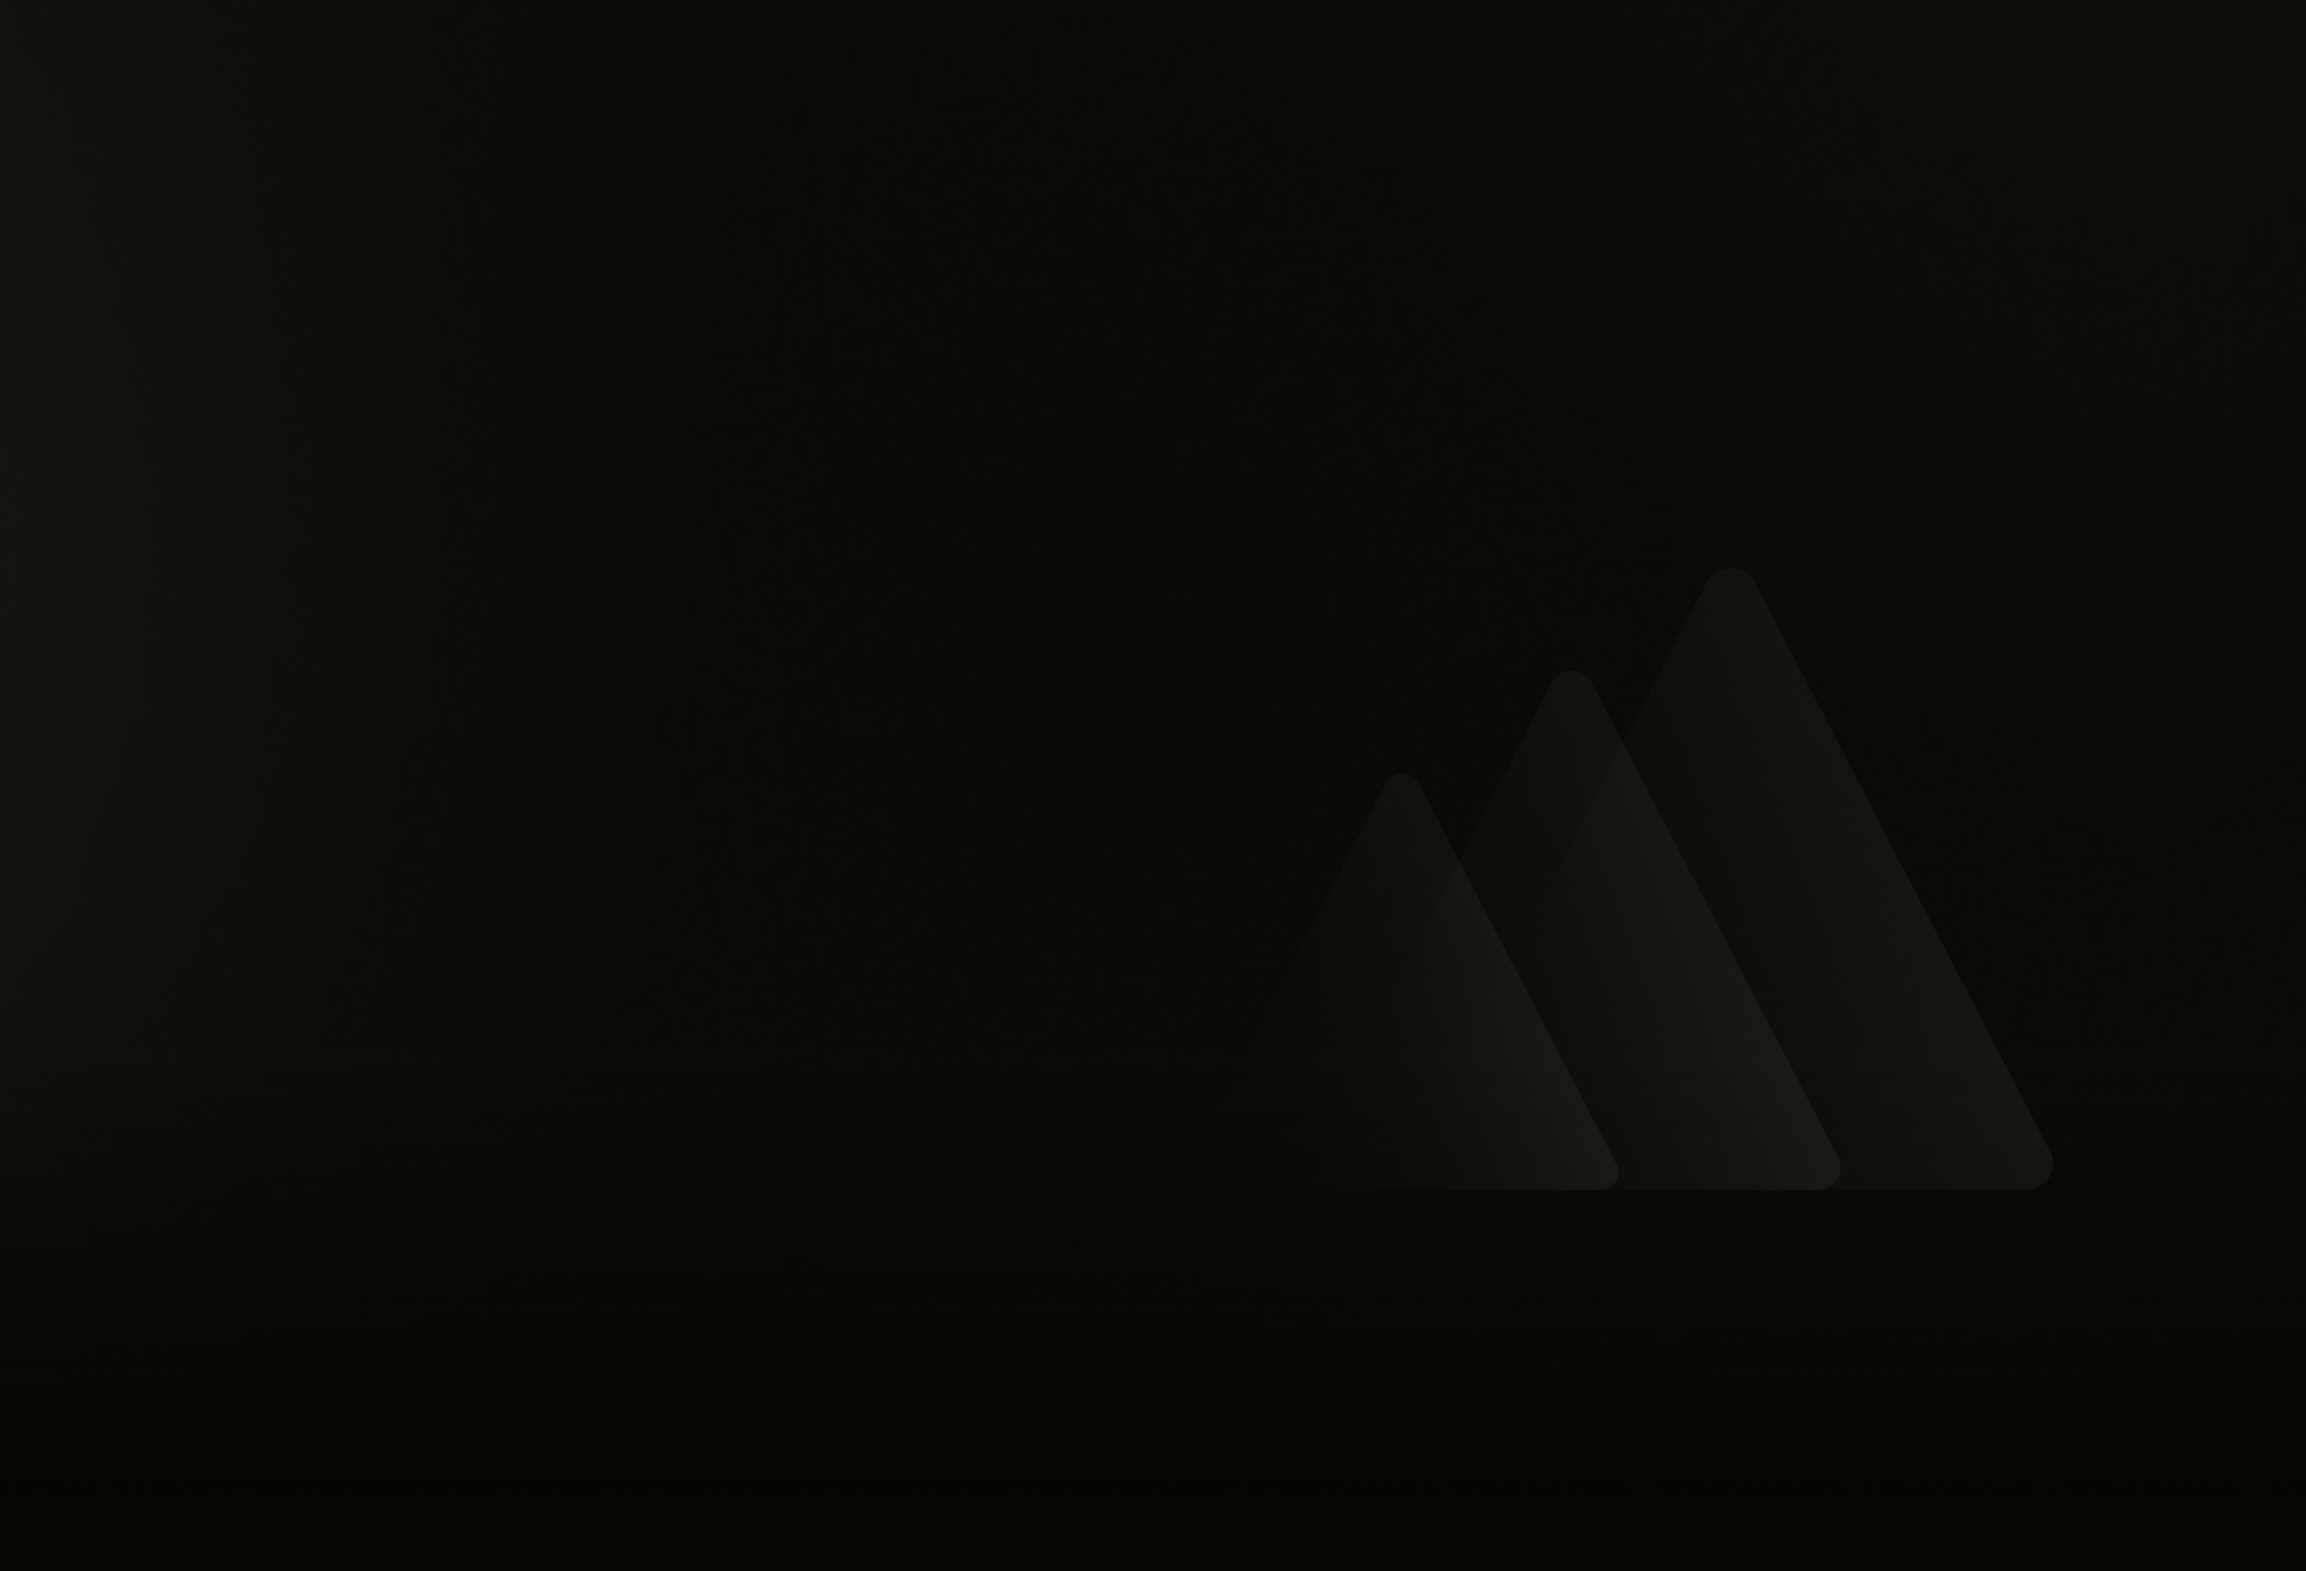
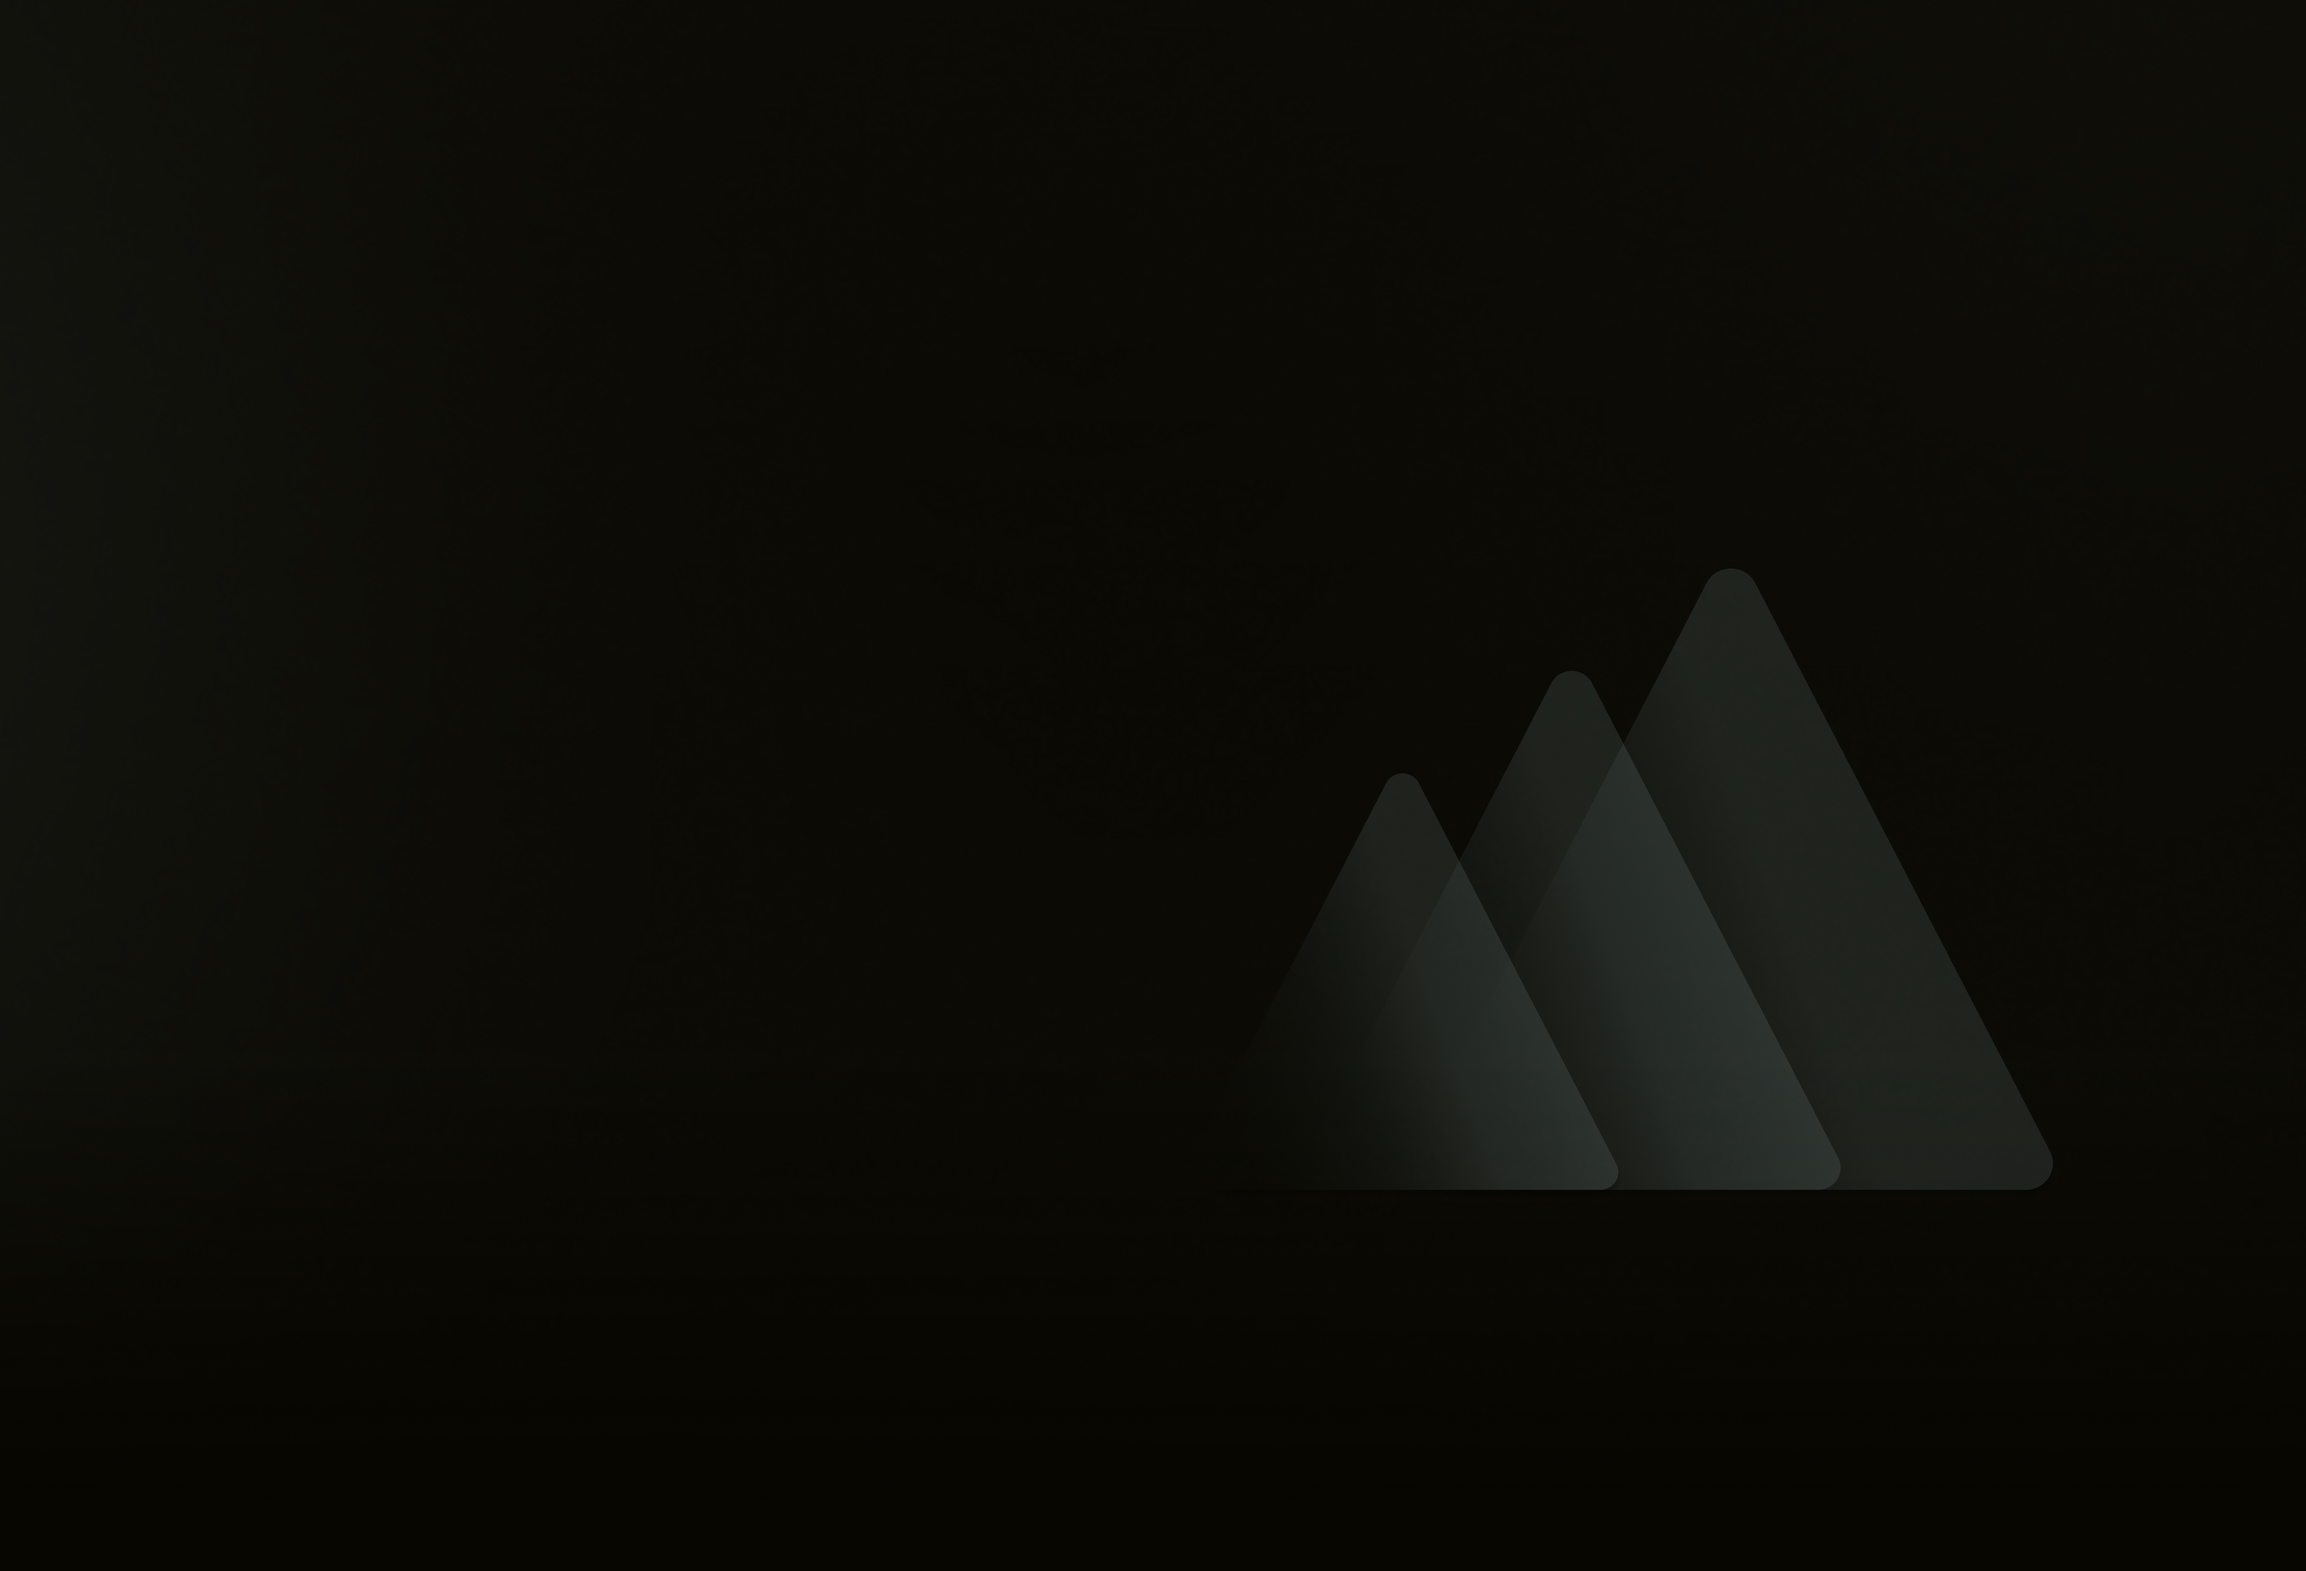
v3.1

Changed region(s): [[0.6562, 0.4664, 0.8125, 0.7773]]

diff --git a/style.css b/style.css
@@ -9,7 +9,7 @@
 
 body::before {
     content: '';
-    position: fixed;
+    position: absolute;
     top: 0;
     left: 0;
     width: 100%;
@@ -89,14 +89,71 @@ ul {
     color: aliceblue;
 }
 
-.principalseta {
-    margin-top: 12vh;
-    text-align: center;
+.solucoes {
+    height: 100vh;
+    background-color: rgb(0, 0, 0);
+    padding: 15vh 25vw;
 }
 
-.seta {
-    width: 4.5rem;
+.caixatextosolucoes {
+    display: flex;
+    gap: 50px;
+    align-items: center;
 }
+
+.titulosolucoes {
+    color: aliceblue;
+    font-weight: 500;
+    font-size: 36px;
+}
+
+.textosolucoes {
+    color: aliceblue;
+    font-weight: 100;
+    font-size: 18px;
+}
+
+.caixaboxsolucoes {
+    display: flex;
+    justify-content: space-evenly;
+}
+
+.box1 {
+    margin-top: 10vh;
+    background-image: url(assets/AM.png);
+    background-size: cover;
+    background-position: center;
+    background-repeat: no-repeat;
+    width: 23.125rem;
+    height: 23.125rem;
+    border-radius: 22px;
+}
+
+.box2 {
+    margin-top: 10vh;
+    background-image: url(assets/BK.png);
+    background-size: cover;
+    background-position: center;
+    background-repeat: no-repeat;
+    width: 23.125rem;
+    height: 23.125rem;
+    border-radius: 22px;
+}
+
+.box3 {
+    margin-top: 10vh;
+    background-image: url(assets/IB.png);
+    background-size: cover;
+    background-position: center;
+    background-repeat: no-repeat;
+    width: 23.125rem;
+    height: 23.125rem;
+    border-radius: 22px;
+}
+
+
+
+
 
 footer {
     background-color: hsl(0, 0%, 0%);
@@ -116,7 +173,7 @@ footer {
 
 .logo-footer {
     margin-top: 0vh;
-    width: 10vw;
+    width: 6vw;
 }
 
 @media (max-width: 768px) {
@@ -169,15 +226,6 @@ footer {
         text-align: start;
     }
 
-    .principalseta {
-        margin-top: 20vh;
-        text-align: center;
-    }
-
-    .seta {
-        width: 3rem;
-    }
-
     .principallinks {
         color: aliceblue;
         margin-top: 3.2vh;
@@ -197,6 +245,43 @@ footer {
         text-decoration: none;
         color: aliceblue;
     }
+
+    
+    .solucoes{
+        height: 140vh;
+    }
+
+    .caixatextosolucoes {
+        display: block;
+        margin-bottom: 4vh;
+    }
+    
+    .titulosolucoes {
+        color: aliceblue;
+        font-weight: 500;
+        font-size: 28px;
+    }
+    
+    .textosolucoes {
+        padding-top: 0.8vh;
+        color: aliceblue;
+        font-weight: 100;
+        font-size: 10px;
+    }
+    
+    .caixaboxsolucoes {
+        display: flex;
+        flex-direction: column;
+    }
+    
+    .box {
+        margin-top: 2vh;
+        background-color: rgb(0, 0, 0);
+        width: 350px;
+        height: 350px;
+        border-radius: 22px;
+    }
+
 
     .footer-faixa1 {
         padding-top: 10vh;

diff --git a/index.html b/index.html
@@ -28,12 +28,21 @@
             <a class="principallinks2" href="https://www.instagram.com/pinnaclefinancebr/" target="_blank" style="text-decoration: none; color: aliceblue;">Conheça mais ></a>
 
         </div>
-        <div class="principalseta">
-            <img src="assets/seta.svg" class="seta">
+
+    </section>
+
+    <section class="solucoes">
+        <div class="caixatextosolucoes">
+            <h1 class="titulosolucoes">Soluções modernas para o mercado dinâmico</h1>
+            <p class="textosolucoes">Nossa abordagem é guiada pelos princípios que diferenciam as equipes de alta performance no setor financeiro: foco implacável, execução ágil e compromisso com a excelência em cada detalhe. </p>
+        </div>
+        <div class="caixaboxsolucoes">
+            <div class="box1" ></div>
+            <div class="box2" ></div>
+            <div class="box3" ></div>
         </div>
     </section>
 
-    
     <footer>
         <div class="footer-faixa1">
         <div class="container-footer">
